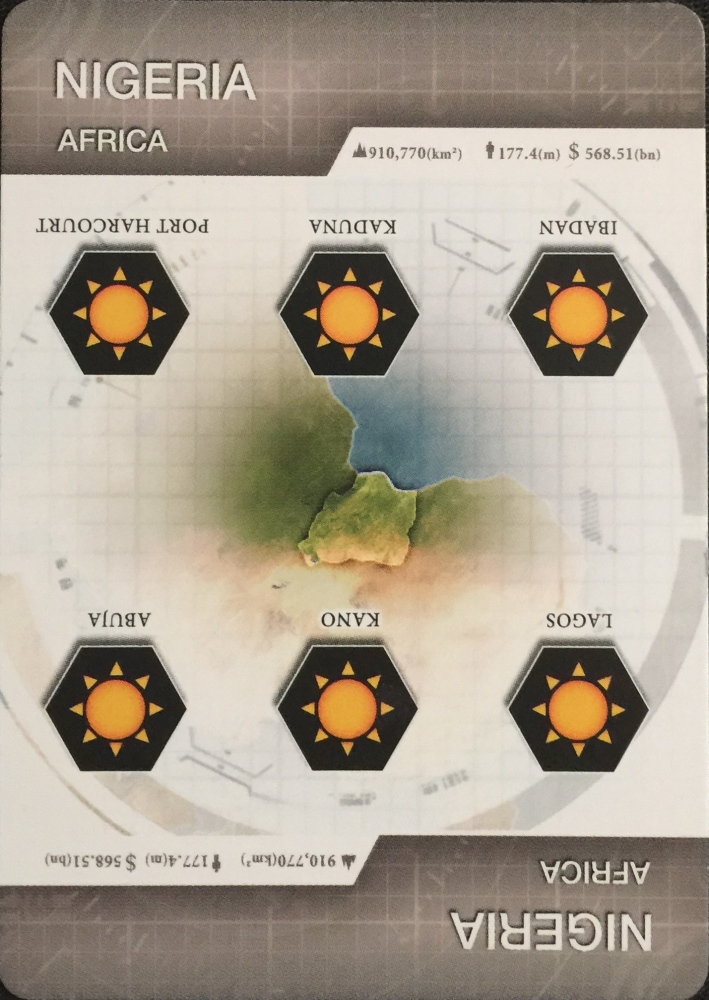
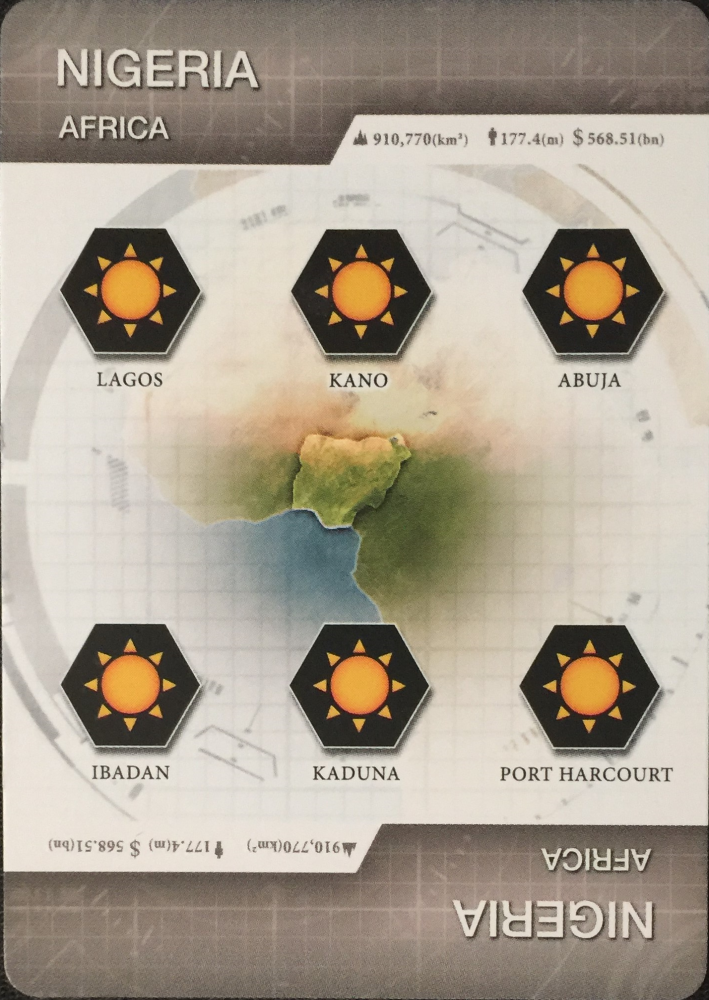
Added Token slots to Country Card components

diff --git a/frontend/src/components/CountryCard.js b/frontend/src/components/CountryCard.js
@@ -1,17 +1,184 @@
 import React, { Component } from "react";
+import TokenSlot from './TokenSlot';
 
 class CountryCard extends Component{
-
     render() {
-        return(
-            <React.Fragment>{
-                    <div>
-                        <img src={`/countries/${this.props.cardName}.png`} className="card"alt="img"/>
-                    </div>   
+        // 2 slot countries:
+        // greenland, iceland, libya, panama
+        if  (this.props.cardName === 'greenland' ||
+             this.props.cardName === 'iceland' ||
+             this.props.cardName === 'libya' ||
+             this.props.cardName === 'panama'){
+            return(
+                <React.Fragment>{
+                        <div>
+                            <img src={`/countries/${this.props.cardName}.png`} className="card"alt="img"/>
+    
+                            <div style={{top:'22%', left:'16.5%'}} className="hexagon"><TokenSlot/></div>
+                            <div style={{top:'61.5%', left:'66.0%'}} className="hexagon"><TokenSlot/></div>
+                        </div>   
                 }
-            </React.Fragment>
-        )
+                </React.Fragment>
+            )
+        }
+
+        // 3 slot countries:
+        // australia, bolivia, canada, cuba, kazakhstan, madagascar, mongolia, morocco, newzealand, norway, peru, pnewguinea, sweden
+        else if  (this.props.cardName === 'australia' ||
+                  this.props.cardName === 'bolivia' ||
+                  this.props.cardName === 'canada' ||
+                  this.props.cardName === 'cuba' ||
+                  this.props.cardName === 'kazakhstan' ||
+                  this.props.cardName === 'madagascar' ||
+                  this.props.cardName === 'mongolia' ||
+                  this.props.cardName === 'morocco' ||
+                  this.props.cardName === 'newzealand' ||
+                  this.props.cardName === 'norway' ||
+                  this.props.cardName === 'peru' ||
+                  this.props.cardName === 'pnewguinea' ||
+                  this.props.cardName === 'sweden'){
+            return(
+                <React.Fragment>{
+                        <div>
+                            <img src={`/countries/${this.props.cardName}.png`} className="card"alt="img"/>
+    
+                            <div style={{top:'22%', left:'40.5%'}} className="hexagon"><TokenSlot/></div>
+                            <div style={{top:'61.5%', left:'15.5%'}} className="hexagon"><TokenSlot/></div>
+                            <div style={{top:'61.5%', left:'64.0%'}} className="hexagon"><TokenSlot/></div>
+                        </div>   
+                }
+                </React.Fragment>
+            )
+        }
+
+        // 4 slot countries:
+        // chile, colombia, iran, iraq, poland, saudiarabia, spain, argentina, sudan, uk, ukraine, venezuela
+        else if  (this.props.cardName === 'argentina' ||
+                  this.props.cardName === 'chile' ||
+                  this.props.cardName === 'colombia' ||
+                  this.props.cardName === 'iran' ||
+                  this.props.cardName === 'iraq' ||
+                  this.props.cardName === 'poland' ||
+                  this.props.cardName === 'saudiarabia' ||
+                  this.props.cardName === 'spain' ||
+                  this.props.cardName === 'sudan' ||
+                  this.props.cardName === 'uk' ||
+                  this.props.cardName === 'ukraine' ||
+                  this.props.cardName === 'venezuela'){
+            return(
+                <React.Fragment>{
+                        <div>
+                            <img src={`/countries/${this.props.cardName}.png`} className="card"alt="img"/>
+    
+                            <div style={{top:'20%', left:'15.5%'}} className="hexagon"><TokenSlot/></div>
+                            <div style={{top:'20%', left:'66%'}} className="hexagon"><TokenSlot/></div>
+                            <div style={{top:'61.0%', left:'16%'}} className="hexagon"><TokenSlot/></div>
+                            <div style={{top:'60.5%', left:'66.0%'}} className="hexagon"><TokenSlot/></div>
+                        </div>   
+                }
+                </React.Fragment>
+            )
+        }
+
+        // 5 slot countries:
+        // egypt, germany, kenya, philippines, france, southafrica, southkorea, turkey
+        else if  (this.props.cardName === 'egypt' ||
+                  this.props.cardName === 'france' ||
+                  this.props.cardName === 'germany' ||
+                  this.props.cardName === 'kenya' ||
+                  this.props.cardName === 'philippines' ||    
+                  this.props.cardName === 'southafrica' ||
+                  this.props.cardName === 'southkorea' ||
+                  this.props.cardName === 'turkey'){
+            return(
+                <React.Fragment>{
+                        <div>
+                            <img src={`/countries/${this.props.cardName}.png`} className="card"alt="img"/>
+    
+                            <div style={{top:'20%', left:'24.5%'}} className="hexagon"><TokenSlot/></div>
+                            <div style={{top:'20%', left:'57%'}} className="hexagon"><TokenSlot/></div>
+                            <div style={{top:'60.0%', left:'7%'}} className="hexagon"><TokenSlot/></div>
+                            <div style={{top:'60.0%', left:'40%'}} className="hexagon"><TokenSlot/></div>
+                            <div style={{top:'60.0%', left:'74.0%'}} className="hexagon"><TokenSlot/></div>
+                        </div>   
+                }
+                </React.Fragment>
+            )
+        }
+
+        // 6 slot countries:
+        // ethiopia, mexico, nigeria, pakistan, russia, japan
+        else if  (this.props.cardName === 'ethiopia' ||
+                  this.props.cardName === 'japan' ||
+                  this.props.cardName === 'mexico' ||
+                  this.props.cardName === 'nigeria' ||
+                  this.props.cardName === 'pakistan' ||
+                  this.props.cardName === 'russia'){
+            return(
+                <React.Fragment>{
+                        <div>
+                            <img src={`/countries/${this.props.cardName}.png`} className="card"alt="img"/>
+
+                            <div style={{top:'21%', left:'8%'}} className="hexagon"><TokenSlot/></div>
+                            <div style={{top:'21%', left:'40.5%'}} className="hexagon"><TokenSlot/></div>
+                            <div style={{top:'21%', left:'75%'}} className="hexagon"><TokenSlot/></div>
+                            <div style={{top:'60.5%', left:'7.5%'}} className="hexagon"><TokenSlot/></div>
+                            <div style={{top:'60.5%', left:'40.5%'}} className="hexagon"><TokenSlot/></div>
+                            <div style={{top:'60.5%', left:'74.5%'}} className="hexagon"><TokenSlot/></div>
+                        </div>   
+                    }
+                </React.Fragment>
+                )
+        }
+
+        // 7 slot countries:
+        // brazil, indonesia, usa
+        else if  (this.props.cardName === 'brazil' ||
+                  this.props.cardName === 'indonesia' ||
+                  this.props.cardName === 'usa'){
+            return(
+                <React.Fragment>{
+                        <div>
+                            <img src={`/countries/${this.props.cardName}.png`} className="card"alt="img"/>
+
+                            <div style={{top:'20.5%', left:'25%'}} className="hexagon"><TokenSlot/></div>
+                            <div style={{top:'21%', left:'57%'}} className="hexagon"><TokenSlot/></div>
+                            <div style={{top:'40%', left:'9%'}} className="hexagon"><TokenSlot/></div>
+                            <div style={{top:'40%', left:'72.5%'}} className="hexagon"><TokenSlot/></div>
+                            <div style={{top:'60%', left:'8.5%'}} className="hexagon"><TokenSlot/></div>
+                            <div style={{top:'60%', left:'41.5%'}} className="hexagon"><TokenSlot/></div>
+                            <div style={{top:'60%', left:'72.5%'}} className="hexagon"><TokenSlot/></div>
+                        </div>   
+                    }
+                </React.Fragment>
+                )
+        }
+
+        // 8 slot countries:
+        // china, india
+        else if  (this.props.cardName === 'china' ||
+                  this.props.cardName === 'india'){
+            return(
+                <React.Fragment>{
+                        <div>
+                            <img src={`/countries/${this.props.cardName}.png`} className="card"alt="img"/>
+
+                            <div style={{top:'21%', left:'8%'}} className="hexagon"><TokenSlot/></div>
+                            <div style={{top:'21.5%', left:'42%'}} className="hexagon"><TokenSlot/></div>
+                            <div style={{top:'21%', left:'75%'}} className="hexagon"><TokenSlot/></div>
+                            <div style={{top:'41%', left:'7.5%'}} className="hexagon"><TokenSlot/></div>
+                            <div style={{top:'41.5%', left:'74.5%'}} className="hexagon"><TokenSlot/></div>
+                            <div style={{top:'61.%', left:'7%'}} className="hexagon"><TokenSlot/></div>
+                            <div style={{top:'61%', left:'41.5%'}} className="hexagon"><TokenSlot/></div>
+                            <div style={{top:'61%', left:'75%'}} className="hexagon"><TokenSlot/></div>
+                        </div>   
+                    }
+                </React.Fragment>
+                )
+        }
     }
+
+
 }
 
 export default CountryCard;

diff --git a/frontend/src/index.css b/frontend/src/index.css
@@ -19,18 +19,22 @@ code {
 
 .gameView{
   max-width: 100%;
+  background-image: url(/public/background.png);
 }
 
 .board{
   max-width: 50%;
-  margin: auto;
   position: relative;
-
+  margin: auto;
+  border: 2px solid;
+  border-color: aquamarine;
 }
 
 .card{
   max-width: 100%;
+  position: relative;
 }
+
 
 .plagueCard{
   width: 30%;
@@ -40,9 +44,14 @@ code {
 }
 
 .cardInHand{
-  max-width: 20%;
+  width: 20%;
   display: inline-block;
 }
+
+.cardInHand:hover{
+  width: 22%;
+}
+
 
 .boardCountrySlot{
   background-color: green;
@@ -70,11 +79,25 @@ code {
 
 .hand{
   white-space: nowrap;
-  max-width:50%;
+  max-width:30%;
   float: left;
 }
 
 .bottomBar{
     max-width: 100%;
+    margin-top: 10px;
     display: inline-block;
+}
+
+.hexagon {
+  --color: rgb(229, 149, 44);
+  rotate: 30deg;
+  display: flex;
+  width: 20%;
+  height: 15%;
+  background-color: var(--color);
+  clip-path: polygon(50% 0%, 100% 25%, 100% 75%, 50% 100%, 0% 75%, 0% 25%);
+  float: left;
+  position: absolute;
+  z-index: 10;
 }

diff --git a/frontend/src/components/GameView.js b/frontend/src/components/GameView.js
@@ -17,7 +17,7 @@ class GameView extends Component{
                         <Board/>
                     </div>
                     <div className="bottomBar">
-                        <span className="plagueCard"><PlagueCard cardName="bluevirus"/></span><span className="hand"><TraitHand/></span>    
+                        <span className="plagueCard"><PlagueCard cardName="orangebacteria"/></span><span className="hand"><TraitHand/></span>    
                     </div>
                 </div> 
                 }

diff --git a/frontend/src/components/TokenSlot.js b/frontend/src/components/TokenSlot.js
@@ -1,17 +1,15 @@
 import React, { Component } from "react";
-import CountryCard from "./CountryCard";
 
-class BoardCountrySlot extends Component{
+class PlagueCardTraitSlot extends Component{
 
     render() {
         return(
             <React.Fragment>{
                 <div>
-                    <CountryCard cardName="usa"/>
                 </div>   
     }       </React.Fragment>
         )
     }
 }
 
-export default BoardCountrySlot;
+export default PlagueCardTraitSlot;
